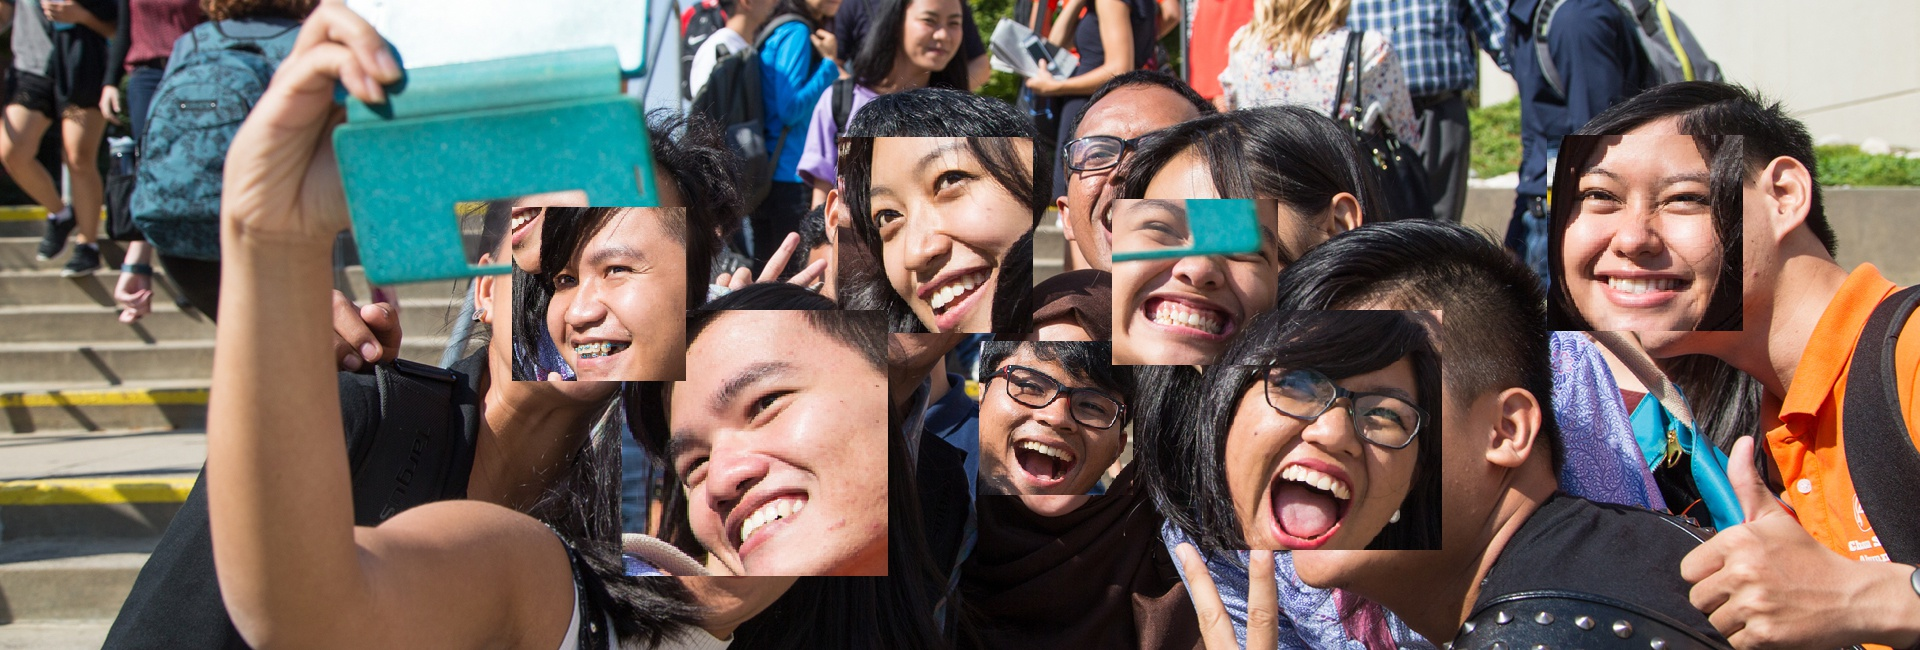
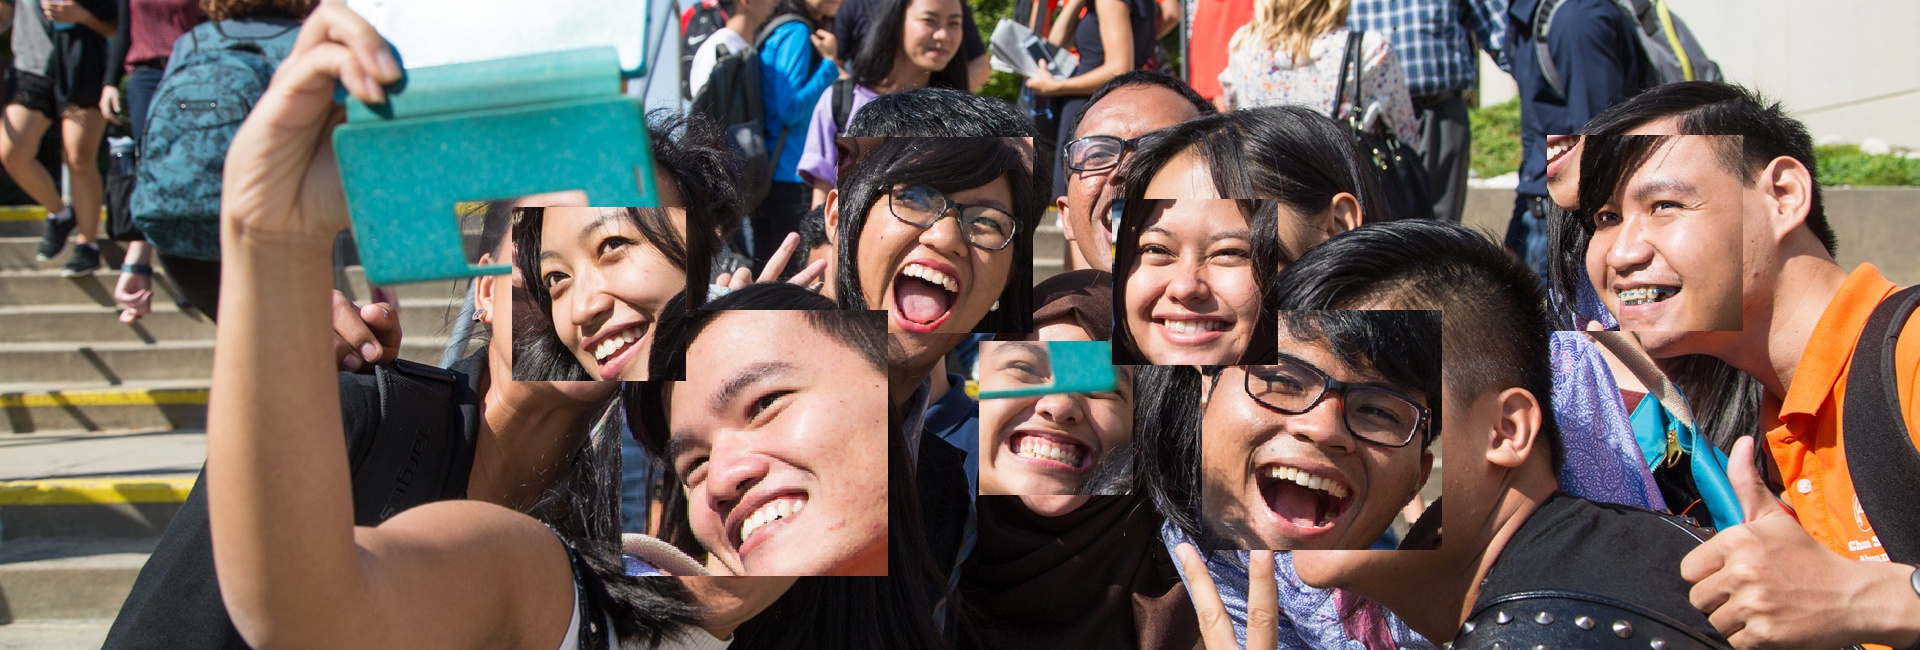
Add selfie and demo

Changed region(s): [[0.4375, 0.1846, 0.75, 0.8615], [0.7812, 0.1846, 0.9062, 0.5231], [0.25, 0.3077, 0.375, 0.5846]]

diff --git a/templates/index.html b/templates/index.html
@@ -46,6 +46,7 @@
                     <a href="/?filename=family.jpg" class="list-group-item list-group-item-action">Family</a>
                     <a href="/?filename=group.jpg" class="list-group-item list-group-item-action">Group</a>
                     <a href="/?filename=faces.jpg" class="list-group-item list-group-item-action">Faces</a>
+                    <a href="/?filename=selfie.jpg" class="list-group-item list-group-item-action">Selfie</a>
                     <a href="/?filename=group-selfie.jpg" class="list-group-item list-group-item-action">Group Selfie</a>
                 </div>
                 {% if filename %}

diff --git a/README.md b/README.md
@@ -1,0 +1,5 @@
+# Nickify
+
+Upload your photos & go nuts transforming them! Nickifying an image looks like this:
+
+<img src="./demo/demo.png">
